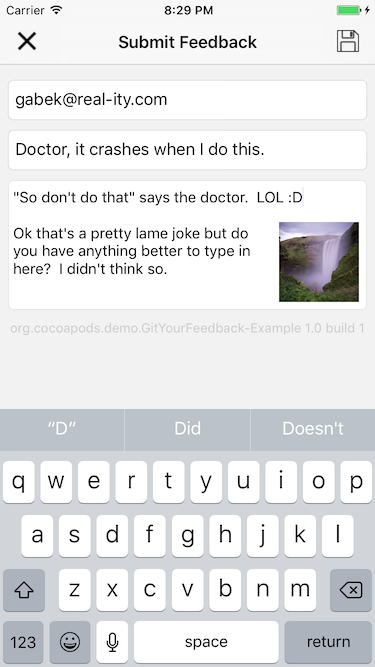
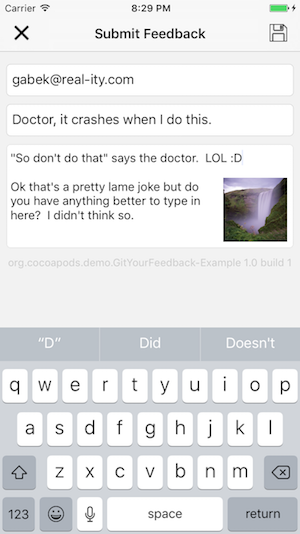
Resize screenshots

diff --git a/README.md b/README.md
@@ -13,10 +13,12 @@ To run the example project:
 * This must be a publicly accessible Google Cloud Storage bucket, as it needs permissions to upload and read the file.
 * Run the project either on a device and take a screenshot, or press the button in the simulator to bring up the feedback interface.
 
-The client will look like: 
+### The client will look like: 
+
 ![Screenshot](./ClientScreenshot.png)
 
-While the resulting Github issue will look like:
+### While the resulting Github issue will look like:
+
 ![Screenshot](./GithubScreenshot.png)
 
 ## Requirements
